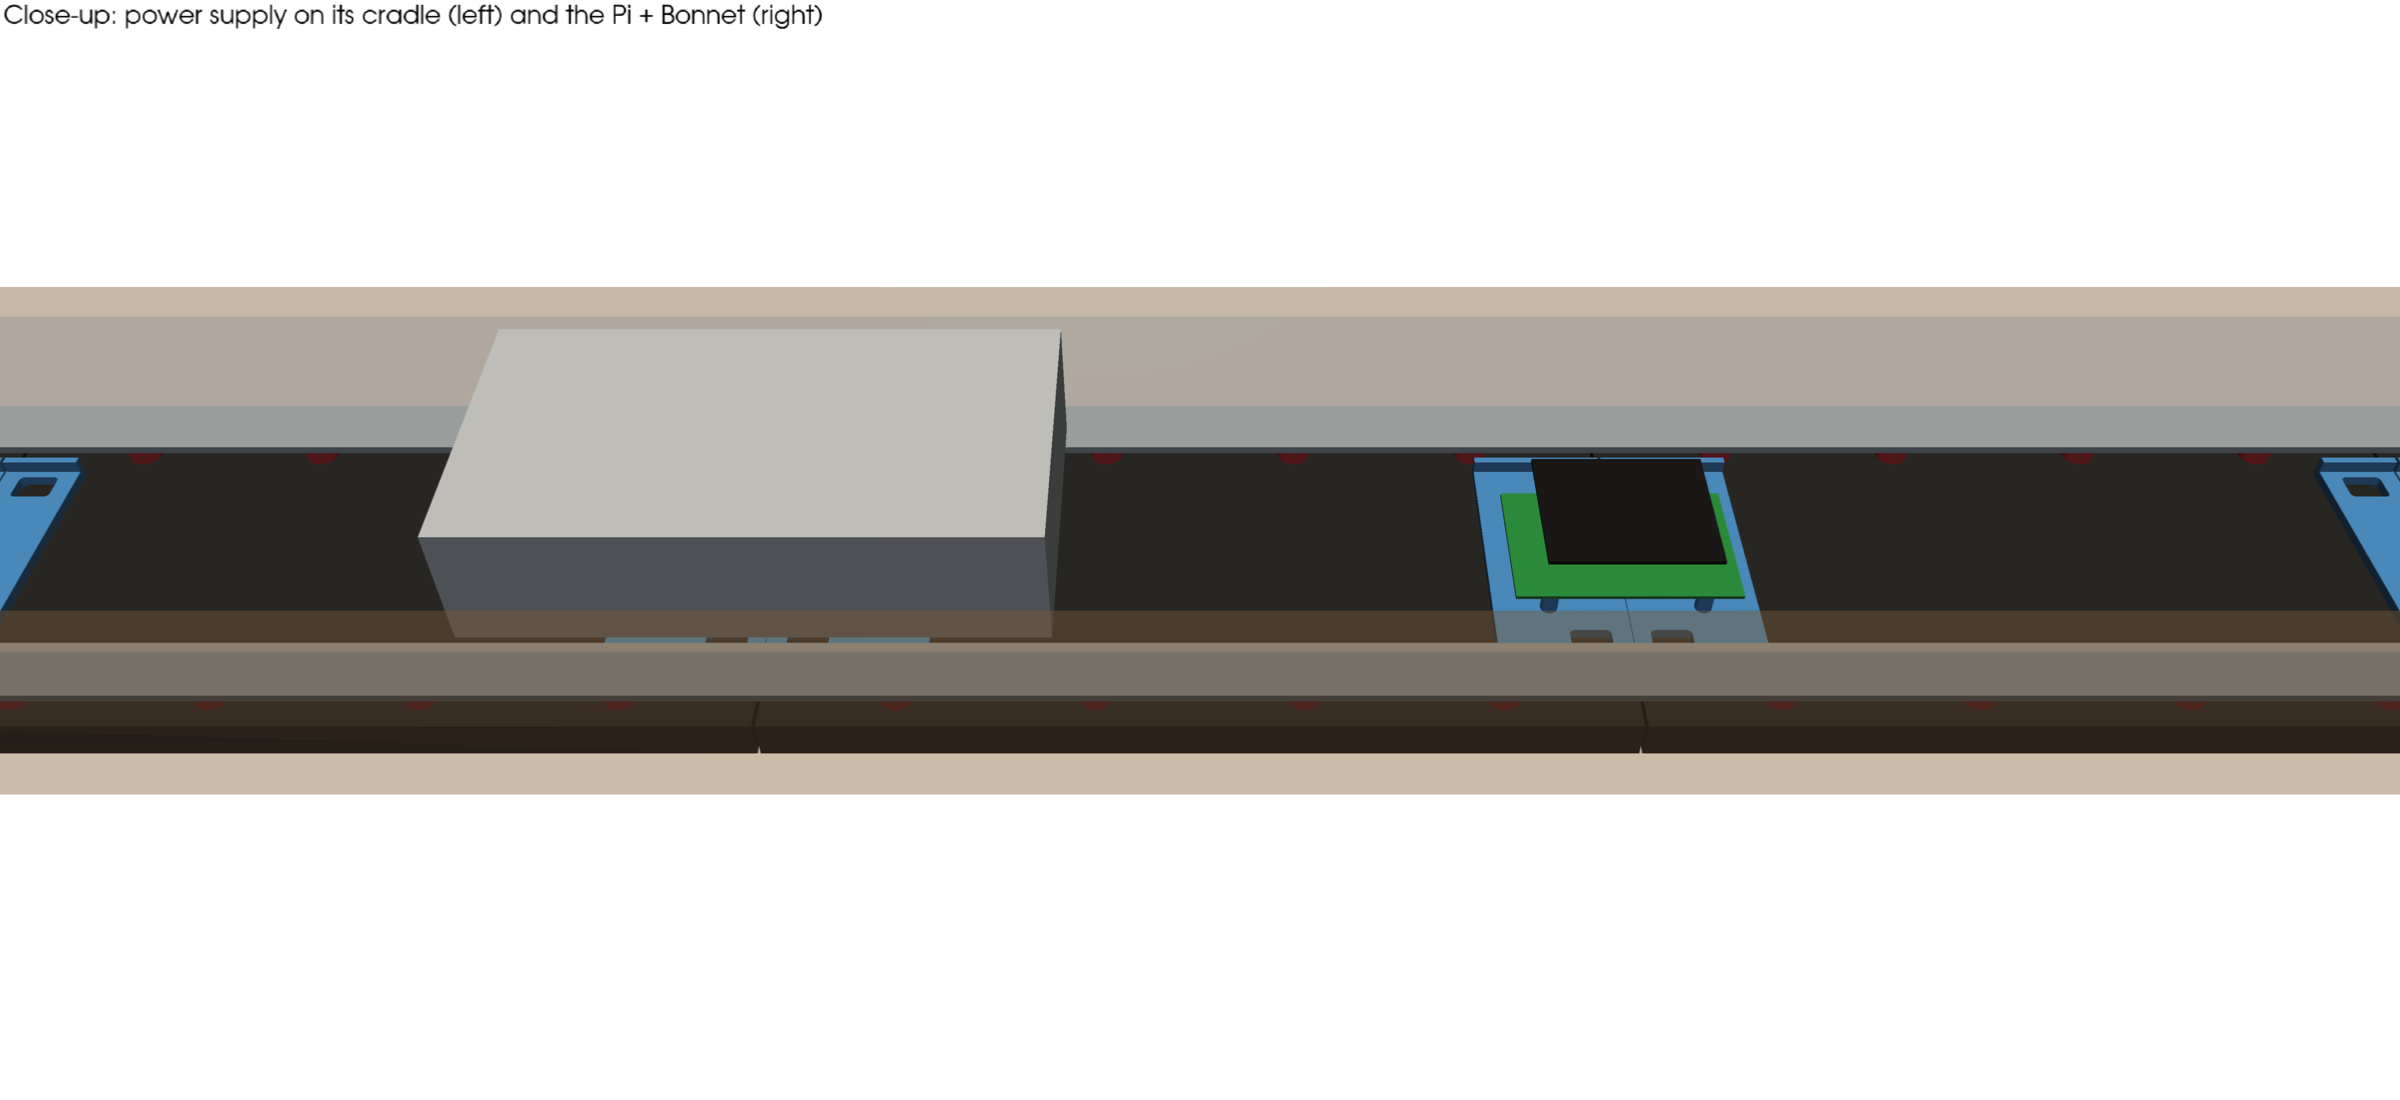
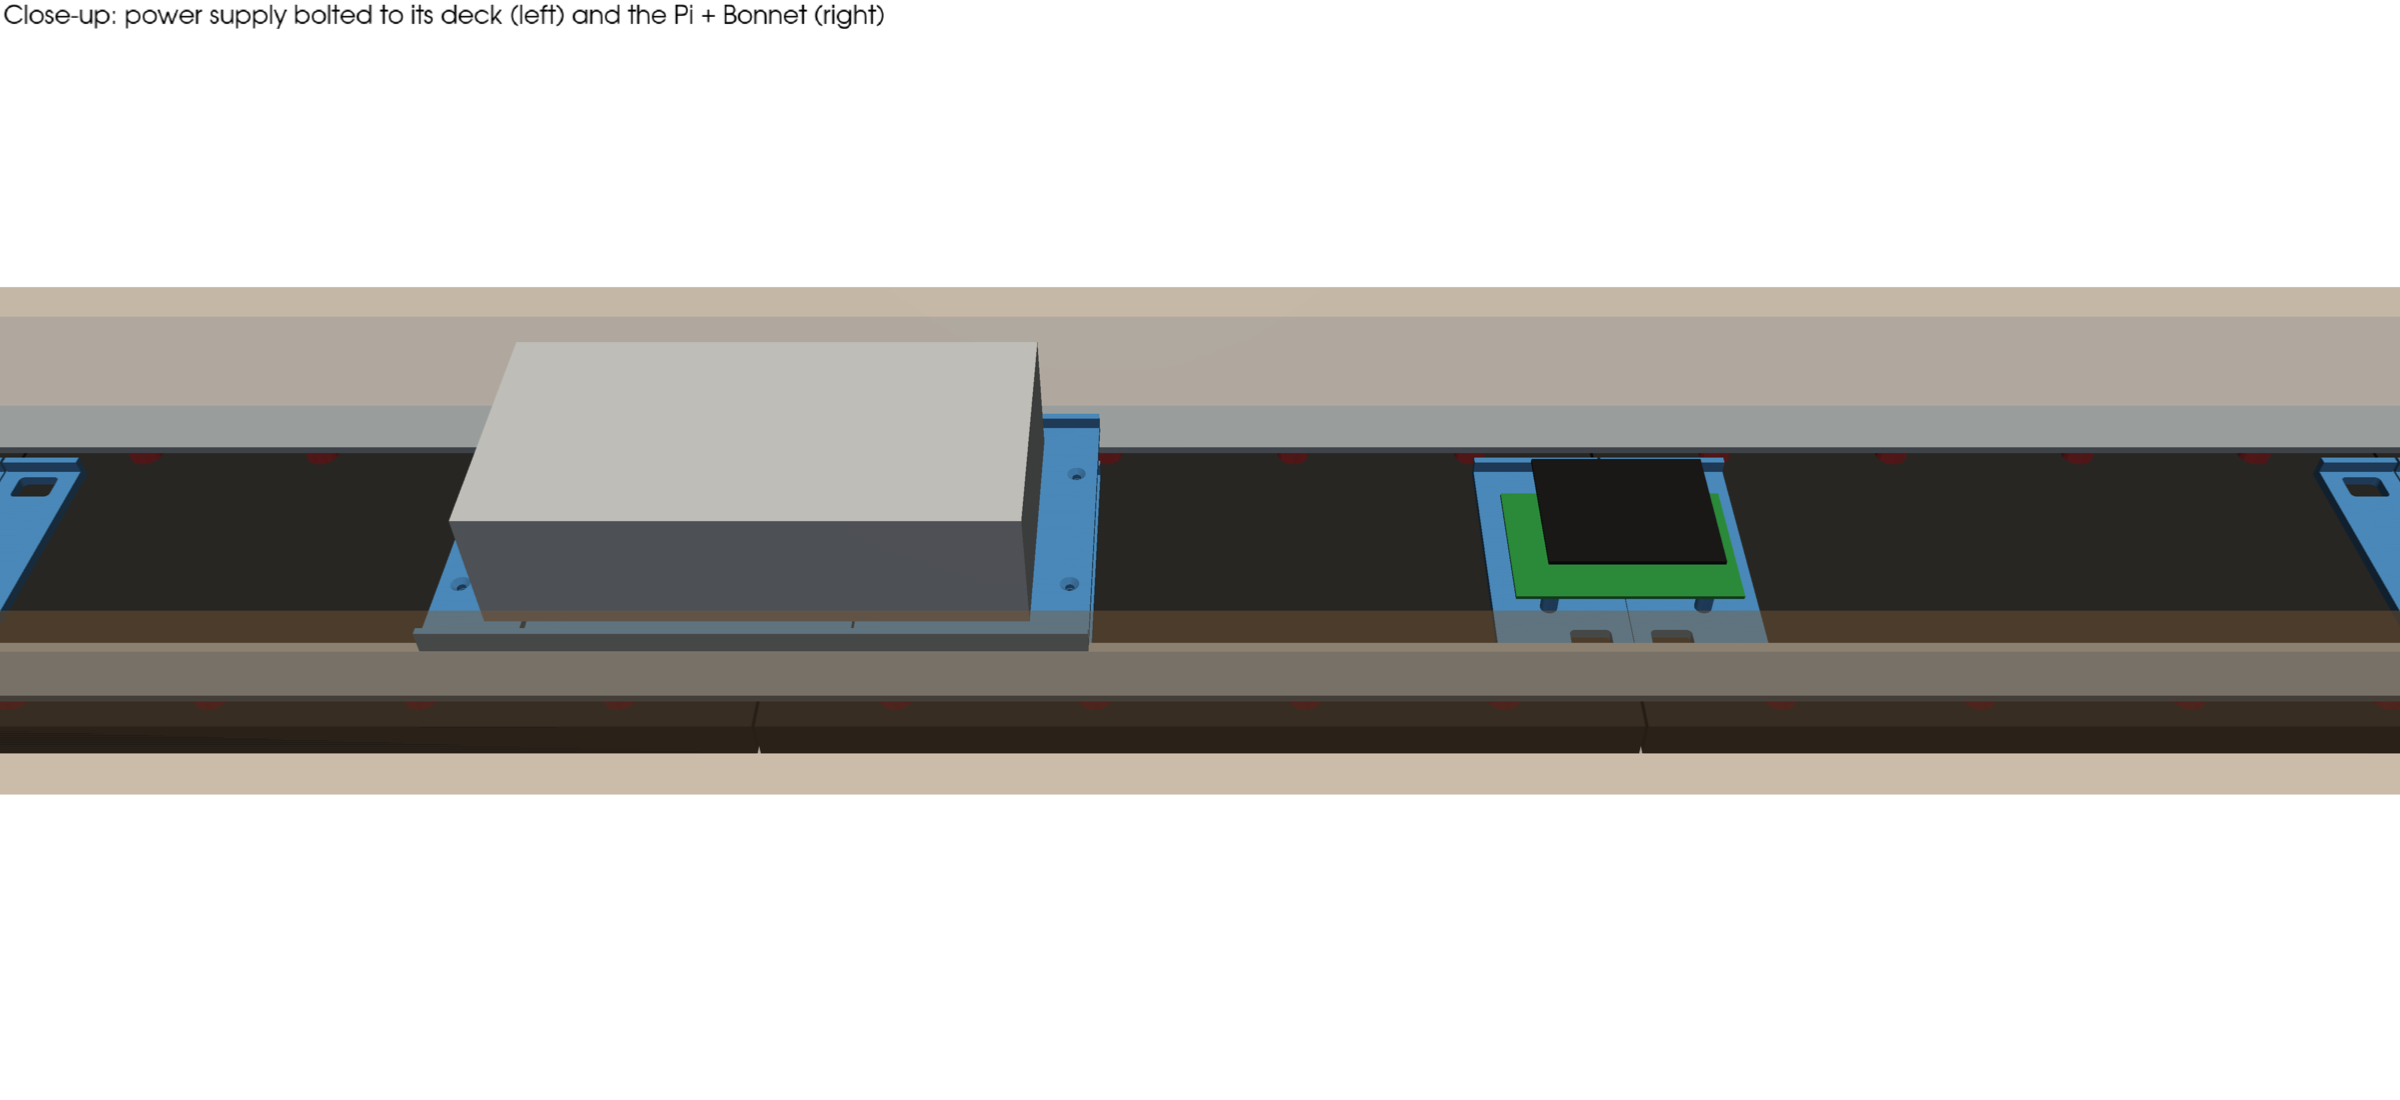
Power supply mount: seam base with posts + bolt-on deck (2 x M4, 4.7in apart), fits inside a 1x4 frame
Claude-Session: https://claude.ai/code/session_01HYeaEYygyfgRPSDkpePvV6

Changed region(s): [[0.1562, 0.34, 0.4688, 0.6182], [0.125, 0.0, 0.375, 0.0309]]

diff --git a/hardware/seam_parts.py b/hardware/seam_parts.py
@@ -5,7 +5,8 @@
 #
 #   ticker-seam-plate.stl      plain joiner for a seam                      print 2
 #   ticker-seam-pi-mount.stl   joiner with the Pi 4 mount built in         print 1
-#   ticker-seam-psu-cradle.stl joiner with a zip-tie cradle for the 5V supply  print 1
+#   ticker-seam-psu-base.stl   joiner with 4 posts for the power-supply deck       print 1
+#   ticker-psu-deck.stl        deck the 5V supply bolts to (2 x M4), sits on the posts  print 1
 #   ticker-end-bracket.stl     outer ends: holds both steel bar ends + flange for the wood sides  print 2
 #   ticker-end-washer.stl      slider washer under each M3 screw (windows are oversized)  print 20
 #
@@ -66,20 +67,47 @@ for (hx, hy) in PI_HOLES:
 pim = seam_marker(pim, 5)
 save(pim, "ticker-seam-pi-mount.stl")
 
-# ---- seam plate with a cradle for the power supply. The supply is taller (~110-115 mm) than the gap between
-# the steel bars, so it rides on two raised rails ABOVE the bars and is held with 2 zip ties / velcro straps.
-RAIL_Z = 22.0                                                      # top of the rails: above the bars (~16 mm)
-psu = box(-60, -H / 2, 0, 60, H / 2, T)
-RAILS = (-34.0, 28.0)                                              # rail y starts: inside the screw windows, clear of the bars
-for y in RAILS:                                                    # two rails along x
-    psu = psu + box(-60, y, T, 60, y + 6, RAIL_Z)
-for x in (-35, 35):                                                # zip-tie slots through each rail (2 straps)
-    for y in RAILS:
-        psu = psu - box(x - 3, y - 1, RAIL_Z - 9, x + 3, y + 7, RAIL_Z - 5)
-psu = psu + box(-60, -1.5, T, 60, 1.5, 10)                         # center rib
-psu = windows(psu, (-INS_X, INS_X))
-psu = seam_marker(psu, 0)
-save(psu, "ticker-seam-psu-cradle.stl")
+# ---- power supply mount, 2 pieces (bolt the supply to the deck FIRST, then screw the deck onto the base):
+#   base: seam joiner (4 end inserts) with 4 posts out past the supply's ends
+#   deck: plate that rides on the posts ABOVE the steel bars; the supply bolts to it with 2 x M4 + fender washers
+# Supply: 7 3/4" (197 mm) long; 2 threaded M4 holes in the bottom along one long edge, 4.7" (119 mm) apart,
+# closer to one end (~18 mm and ~139 mm from that end, from the photo). The deck has slotted windows so the
+# across-the-width position and a few mm along don't matter.
+PSU_L = 197.0
+PSU_HOLE_DX = 119.4                       # 4.7" center to center
+PSU_HOLE_FROM_END = 18.0                  # first hole from the near end (photo estimate)
+PSU_HOLE_CX = -PSU_L / 2 + PSU_HOLE_FROM_END + PSU_HOLE_DX / 2   # midpoint of the 2 holes, supply centered at x=0
+DECK_Z = 18.0                             # underside of the deck: above the bars (~16 mm)
+DECK_T = 4.0
+BL = 120.0                                # base/deck half-length (240 mm long: fits a 256 mm bed)
+POST_X, POST_Y = 112.0, 30.0
+BASE_H = 104.0                            # base stays between the bars where the posts are
+psub = box(-BL, -BASE_H / 2, 0, BL, BASE_H / 2, T)
+psub = ribs(psub, -BL, BL, ys=(-BASE_H / 2 + 1.5, BASE_H / 2 - 1.5))
+for px in (-POST_X, POST_X):
+    for py in (-POST_Y, POST_Y):
+        psub = psub + box(px - 5, py - 5, T, px + 5, py + 5, DECK_Z)
+        psub = psub - cyl(px, py, T, DECK_Z, 2.8, 24)          # M3 self-tapping / thread-forming screw
+psub = windows(psub, (-INS_X, INS_X))
+psub = seam_marker(psub, 0)
+save(psub, "ticker-seam-psu-base.stl")
+
+deck = box(-BL, -60, 0, BL, 60, DECK_T)
+for y in (-58.5, 58.5):                                           # stiffening lips along both long edges
+    deck = deck + box(-BL, y - 1.5, DECK_T, BL, y + 1.5, DECK_T + 5)
+for px in (-POST_X, POST_X):                                      # countersunk holes onto the base posts
+    for py in (-POST_Y, POST_Y):
+        deck = deck - cyl(px, py, -1, DECK_T + 2, 3.4, 24)
+        deck = deck - Cy(2.0, 1.7, 3.6, 24).translate([px, py, DECK_T - 1.99])
+for hx in (PSU_HOLE_CX - PSU_HOLE_DX / 2, PSU_HOLE_CX + PSU_HOLE_DX / 2):   # M4 windows for the supply
+    for s_ in (-1, 1):
+        a, b = sorted((s_ * 32.0, s_ * 55.0))
+        deck = deck - rbox(hx - 4.5, a, hx + 4.5, b, -1, DECK_T + 2, 2.2)
+for x in np.arange(-90, 91, 12):                                   # vents under the supply
+    deck = deck - box(x - 2, -22, -1, x + 2, 22, DECK_T + 1)
+# outline of the supply's footprint scored lightly on top, so it's obvious which way it sits
+deck = deck - box(-PSU_L / 2, -0.4 - 25, DECK_T - 0.5, -PSU_L / 2 + 0.8, 25.4, DECK_T + 1)
+save(deck, "ticker-psu-deck.stl")
 
 # ---- end bracket (outer ends): full panel height, 90-degree flange flush with the end edge for the wood side
 # board (screw holes along the whole height), and pockets that capture the ends of both 1" steel bars, so the
@@ -117,11 +145,11 @@ save(rbox(-9, -7, 9, 7, 0, 2.0, 2.5) - cyl(0, 0, -1, 4.0, 3.4, 32), "ticker-end-
 import matplotlib; matplotlib.use("Agg")
 import matplotlib.pyplot as plt
 from mpl_toolkits.mplot3d.art3d import Poly3DCollection
-names = ["ticker-seam-plate.stl", "ticker-seam-pi-mount.stl", "ticker-seam-psu-cradle.stl", "ticker-end-bracket.stl"]
-fig = plt.figure(figsize=(16, 5))
+names = ["ticker-seam-plate.stl", "ticker-seam-pi-mount.stl", "ticker-seam-psu-base.stl", "ticker-psu-deck.stl", "ticker-end-bracket.stl"]
+fig = plt.figure(figsize=(20, 5))
 for i, n in enumerate(names):
-    tm = trimesh.load(n); ax = fig.add_subplot(1, 4, i + 1, projection="3d")
+    tm = trimesh.load(n); ax = fig.add_subplot(1, 5, i + 1, projection="3d")
     ax.add_collection3d(Poly3DCollection(tm.vertices[tm.faces], facecolor="#5aa0e0", edgecolor="#1d3d5e", linewidths=0.1))
-    ax.set_xlim(-85, 85); ax.set_ylim(-85, 85); ax.set_zlim(0, 70); ax.view_init(35, -60); ax.set_axis_off()
+    ax.set_xlim(-140, 140); ax.set_ylim(-140, 140); ax.set_zlim(0, 70); ax.view_init(35, -60); ax.set_axis_off()
     ax.set_title(n.replace("ticker-", "").replace(".stl", ""))
 plt.tight_layout(); plt.savefig("ticker-seam-parts.png", dpi=100)

diff --git a/hardware/render_assembly.py b/hardware/render_assembly.py
@@ -23,7 +23,8 @@ def add(key, mesh): groups.setdefault(key, []).append(mesh)
 for i in range(N):                                                    # panels (front faces -z)
     add("panel", tbox(i * PW + 0.6, 0, -15, (i + 1) * PW - 0.6, PH, 0))
 add("print", part("ticker-seam-plate.stl", PW * 1))
-add("print", part("ticker-seam-psu-cradle.stl", PW * 2))
+add("print", part("ticker-seam-psu-base.stl", PW * 2))
+add("print", part("ticker-psu-deck.stl", PW * 2).apply_translation([0, 0, 18]))
 add("print", part("ticker-seam-pi-mount.stl", PW * 3))
 add("print", part("ticker-seam-plate.stl", PW * 4))
 add("print", part("ticker-end-bracket.stl", 0))
@@ -33,7 +34,7 @@ for ry in (14, 146):                                                  # steel ba
     for i in range(N):
         for rx in (50, 122, 198, 270):
             add("magnet", tcyl(i * PW + rx, ry, 0, 12, 12.5))
-add("psu", tbox(PW * 2 - 107, 80 - 57, 22, PW * 2 + 107, 80 + 57, 72))  # 5V 30A supply on the cradle
+add("psu", tbox(PW * 2 - 98.5, 80 - 49, 22, PW * 2 + 98.5, 80 + 49, 72))  # 5V 30A supply (197 x 98 x ~50) bolted to the deck
 add("pi", tbox(PW * 3 - 42.5, 80 - 28, 12, PW * 3 + 42.5, 80 + 28, 13.5))   # Pi 4
 add("bonnet", tbox(PW * 3 - 32.5, 80 - 28, 30, PW * 3 + 32.5, 80 + 28, 31.6))  # Triple Bonnet on the tall header
 WOOD, DEPTH = 19, 75                                                  # 3/4" boards, 75 mm deep (covers panel + parts)
@@ -73,7 +74,7 @@ p.screenshot("ticker-render-closeup.png")
 
 p = scene(wood_opacity=0.25)
 p.camera_position = [(PW * 2.5, -480, 560), (PW * 2.5, 80, 10), (0, 0, 1)]
-p.add_text("Close-up: power supply on its cradle (left) and the Pi + Bonnet (right)", font_size=12, color="black")
+p.add_text("Close-up: power supply bolted to its deck (left) and the Pi + Bonnet (right)", font_size=12, color="black")
 p.screenshot("ticker-render-middle.png")
 print("ok")
 

diff --git a/hardware/back_layout.py b/hardware/back_layout.py
@@ -33,7 +33,7 @@ for xc in (PW * 1, PW * 4):
 for xe in (15, W - 15):
     ax.add_patch(Rectangle((xe - 15, 0), 30, PH, facecolor="#5aa0e0", edgecolor="#1d3d5e", lw=1.2, zorder=7))
     ax.text(xe, PH + 12, "end bracket", ha="center", fontsize=8.5, zorder=9)
-part(PW * 2, 120, "#5aa0e0", "")
+part(PW * 2, 240, "#5aa0e0", "")
 part(PW * 3, 100, "#5aa0e0", "")
 for k in range(0, N + 1):
     for sx in (-1, 1):
@@ -50,8 +50,8 @@ for i in range(N):
         for rx in ROW_X:
             ax.add_patch(Circle((i * PW + rx, ry), 6.5, facecolor="#d94040", edgecolor="#701010", lw=0.8, zorder=7))
 # power supply rides above the bars on the cradle; Pi on its seam mount
-ax.add_patch(FancyBboxPatch((PW * 2 - 107, 22), 214, 116, boxstyle="round,pad=1", facecolor="#c9ccd1", edgecolor="#555", lw=1.2, alpha=0.85, zorder=8))
-ax.text(PW * 2, 80, "5V 30A supply\n(on seam cradle)", ha="center", va="center", fontsize=10, zorder=9)
+ax.add_patch(FancyBboxPatch((PW * 2 - 98.5, 31), 197, 98, boxstyle="round,pad=1", facecolor="#c9ccd1", edgecolor="#555", lw=1.2, alpha=0.85, zorder=8))
+ax.text(PW * 2, 80, "5V 30A supply\n(bolted to deck on seam base)", ha="center", va="center", fontsize=10, zorder=9)
 ax.add_patch(FancyBboxPatch((PW * 3 - 42.5, PH / 2 - 28), 85, 56, boxstyle="round,pad=1", facecolor="#3fa34d", edgecolor="#1e5a26", lw=1.2, zorder=8))
 ax.text(PW * 3, PH / 2, "Pi 4 + Bonnet\n(seam Pi mount)", ha="center", va="center", fontsize=8.5, color="white", zorder=9)
 for tx in (PW * 4 + 160, PW * 2 + 160, PW * 0 + 160):
